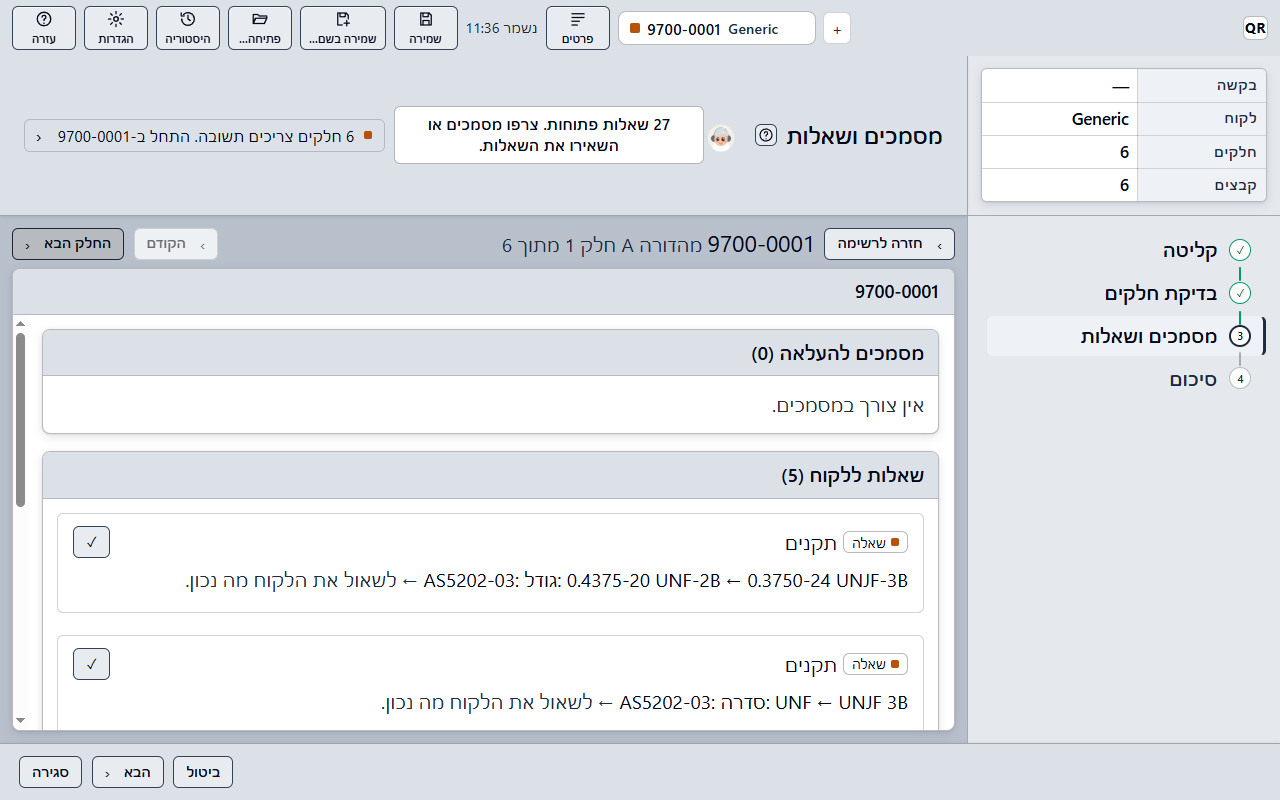
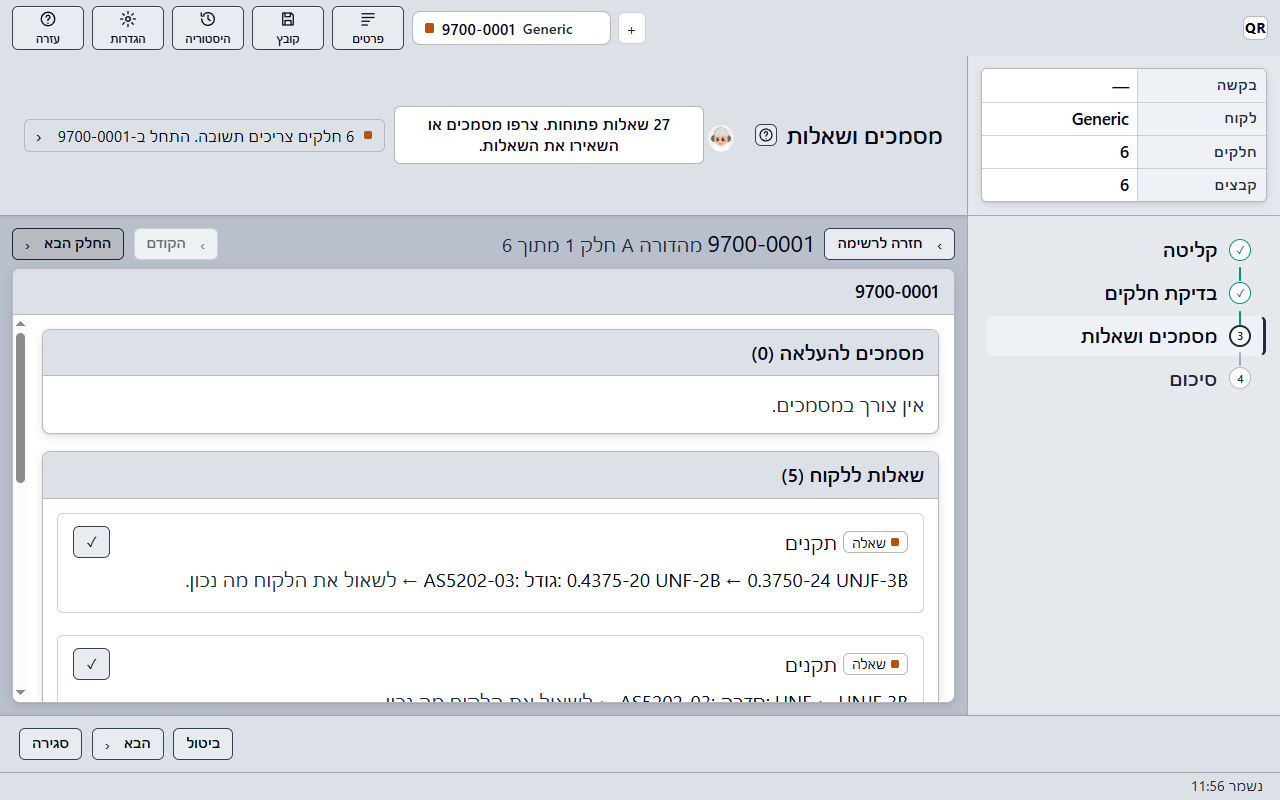
Audit docs: top bar row, refreshed synthetic shots

diff --git a/docs/newcomer-audit.md b/docs/newcomer-audit.md
@@ -25,6 +25,7 @@ Rules: (1) one primary action per screen; (2) a top "next step" line that names 
 | 14 | Tab dots | The dot colours were hard-coded twice (wizard.css and system.css). | Both use the `--qr-st-*` tokens, the same ones as the part status dots (grey none, green ok, orange action, red not ours). | Fixed |
 | 15 | Jargon (English) | "Intake", "Blocker", "flags", "OCR", "BOM". | "Load files", "Must fix", "open issues", "Scanned text", "Parts list". Hebrew already used plain words. | Fixed for the main screens |
 | 16 | Step 2 (and 3), three panels | "List, drawing and card at once: where do I look?" | One focus at a time. List view: tiles, then one row per part (part number, rev, status, one-line reason), the next-step line on top. Click a row: Part view with a large drawing beside that part's blocks, Back to list, Previous, Next part (the next part that needs action) and the arrow keys (mirrored in Hebrew), Esc = back. No third column. Documents & questions uses the same list, then the questions of one part at full width. | Fixed |
+| 17 | Top bar | A loose "Saved 11:42" text wedged between buttons; Save/Save as greyed without a reason; buttons of different widths. | Save, Save as and Open live under ONE File menu (each item explains why it is disabled); an unsaved dot on the project tab until the save finishes; "Saved hh:mm" quietly in a slim status bar at the bottom (also in the File tooltip); all toolbar buttons have the same width. Checked by scripts/shots-toolbar.cjs. | Fixed |
 
 ## Still open (needs Alex's decision or a larger change)
 
